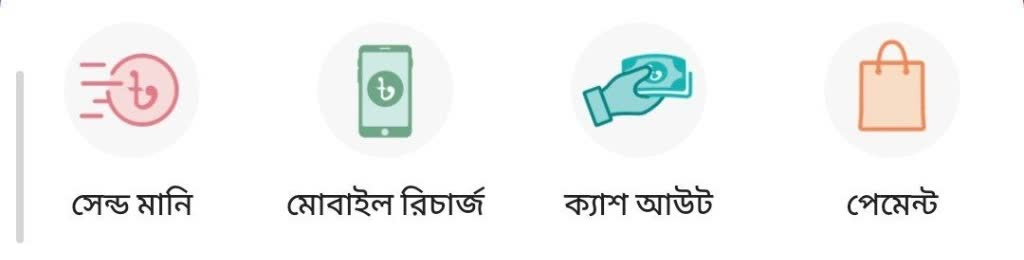
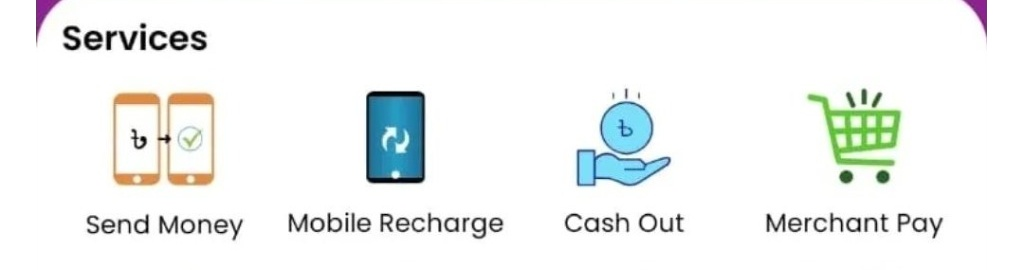
fix: Expand payment guide crops, remove inverted hand badge, and add *247# dial payment instructions for bKash

diff --git a/index.html b/index.html
@@ -188,9 +188,7 @@
                 <div class="pay-guide-preview">
                     <div class="guide-img-box">
                         <img src="assets/payment/bkash_guide.jpg" alt="bKash Services" class="pay-guide-img">
-                        <div class="guide-target-box target-bkash">
-                            <span class="target-badge">👈 পেমেন্ট</span>
-                        </div>
+                        <div class="guide-target-box target-bkash"></div>
                     </div>
                 </div>
 
@@ -201,7 +199,7 @@
                     </div>
                     
                     <p class="pay-inst-note">
-                        ⚠ <strong>সতর্কতা:</strong> এটি মার্চেন্ট অ্যাকাউন্ট, তাই সেন্ড মানি করবেন না (সেন্ড মানি হবে না)। বিকাশ অ্যাপের <strong>"Payment" (মেক পেমেন্ট)</strong> অপশন ব্যবহার করে ১০০ টাকা পেমেন্ট সম্পন্ন করুন।
+                        ⚠ <strong>সতর্কতা:</strong> এটি মার্চেন্ট অ্যাকাউন্ট, তাই সেন্ড মানি করবেন না (সেন্ড মানি হবে না)। বিকাশ অ্যাপ অথবা ডায়াল কোড <code>*247#</code> ডায়াল করে <strong>4 (Payment)</strong> সিলেক্ট করে ১০০ টাকা পেমেন্ট সম্পন্ন করুন।
                     </p>
 
                     <div class="pay-num-box">
@@ -221,9 +219,7 @@
                 <div class="pay-guide-preview">
                     <div class="guide-img-box">
                         <img src="assets/payment/nagad_guide.jpg" alt="Nagad Services" class="pay-guide-img">
-                        <div class="guide-target-box target-nagad">
-                            <span class="target-badge">👈 সেন্ড মানি</span>
-                        </div>
+                        <div class="guide-target-box target-nagad"></div>
                     </div>
                 </div>
 
@@ -234,7 +230,7 @@
                     </div>
 
                     <p class="pay-inst-note">
-                        📌 আপনার নগদ অ্যাপ অথবা *167# ডায়াল করে <strong>"সেন্ড মানি (Send Money)"</strong> অপশনে গিয়ে ১০০ টাকা পাঠিয়ে দিন।
+                        📌 আপনার নগদ অ্যাপ অথবা ডায়াল কোড <code>*167#</code> ডায়াল করে <strong>"সেন্ড মানি (Send Money)"</strong> অপশনে গিয়ে ১০০ টাকা পাঠিয়ে দিন।
                     </p>
 
                     <div class="pay-num-box">
@@ -254,9 +250,7 @@
                 <div class="pay-guide-preview">
                     <div class="guide-img-box">
                         <img src="assets/payment/rocket_guide.jpg" alt="Rocket Services" class="pay-guide-img">
-                        <div class="guide-target-box target-rocket">
-                            <span class="target-badge">👈 Send Money</span>
-                        </div>
+                        <div class="guide-target-box target-rocket"></div>
                     </div>
                 </div>
 
@@ -267,7 +261,7 @@
                     </div>
 
                     <p class="pay-inst-note">
-                        📌 আপনার রকেট অ্যাপ অথবা *322# ডায়াল করে <strong>"Send Money (সেন্ড মানি)"</strong> অপশনে গিয়ে ১০০ টাকা পাঠিয়ে দিন।
+                        📌 আপনার রকেট অ্যাপ অথবা ডায়াল কোড <code>*322#</code> ডায়াল করে <strong>"Send Money (সেন্ড মানি)"</strong> অপশনে গিয়ে ১০০ টাকা পাঠিয়ে দিন।
                     </p>
 
                     <div class="pay-num-box">

diff --git a/style.css b/style.css
@@ -1236,40 +1236,27 @@ body, button, input, select, textarea {
     box-sizing: border-box;
     pointer-events: none;
     border: 2.5px solid #10b981;
-    border-radius: 10px;
+    border-radius: 12px;
     background: rgba(16, 185, 129, 0.08);
+    box-shadow: 0 0 10px rgba(16, 185, 129, 0.3);
 }
 .target-bkash {
-    top: 4%;
-    right: 2%;
-    width: 23%;
-    height: 92%;
+    top: 20%;
+    right: 3.5%;
+    width: 22.3%;
+    height: 74%;
 }
 .target-nagad {
-    top: 4%;
-    left: 2%;
-    width: 23%;
-    height: 92%;
+    top: 5.5%;
+    left: 3.3%;
+    width: 22.0%;
+    height: 91%;
 }
 .target-rocket {
-    top: 4%;
-    left: 2%;
-    width: 23%;
-    height: 92%;
-}
-.target-badge {
-    position: absolute;
-    top: -9px;
-    left: 50%;
-    transform: translateX(-50%);
-    background: #10b981;
-    color: #ffffff;
-    font-size: 10px;
-    font-weight: 700;
-    padding: 1px 6px;
-    border-radius: 10px;
-    white-space: nowrap;
-    box-shadow: 0 2px 4px rgba(0,0,0,0.15);
+    top: 15.7%;
+    left: 2.4%;
+    width: 21.5%;
+    height: 76.4%;
 }
 
 /* Branded Instruction Cards */
